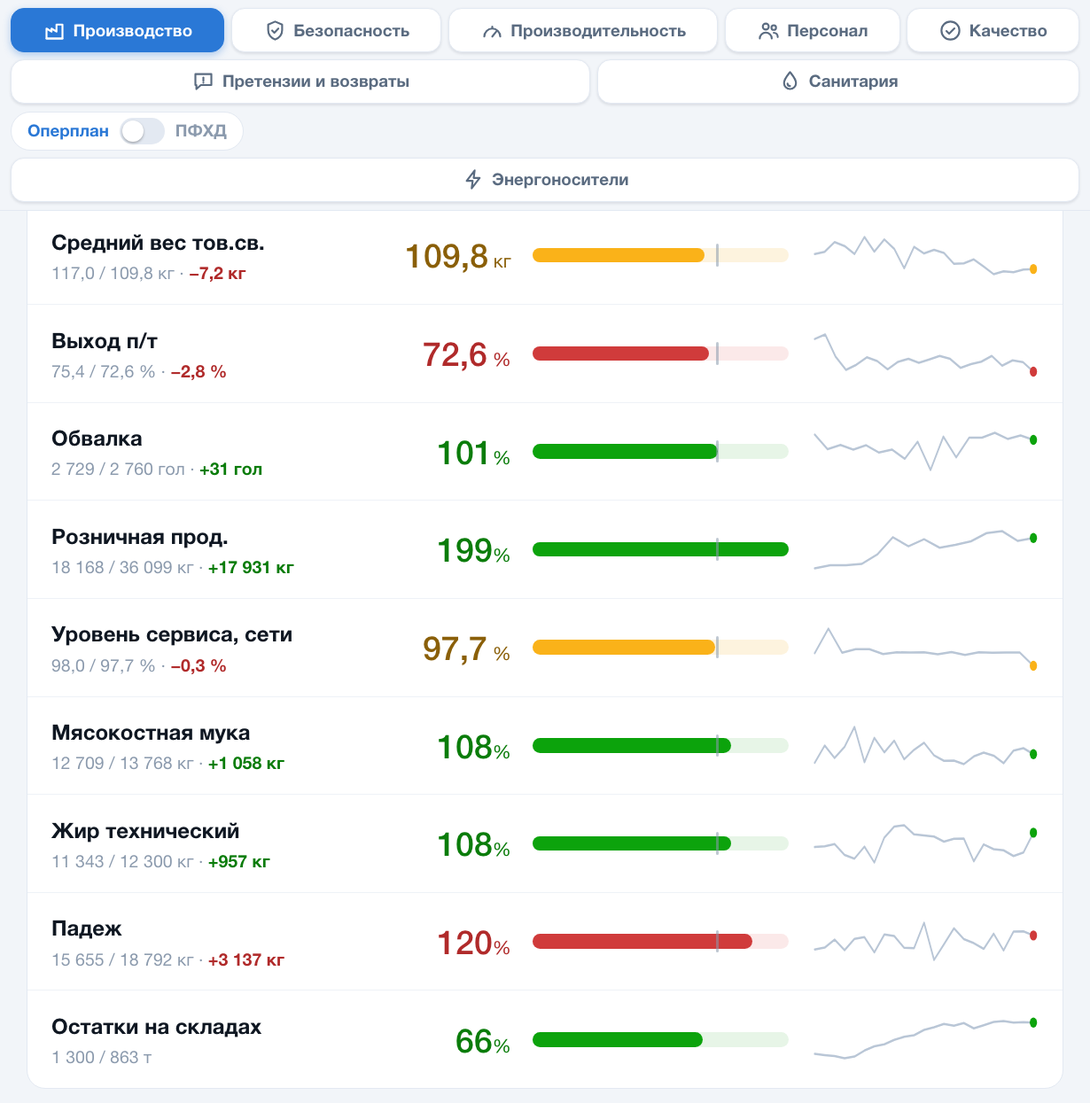
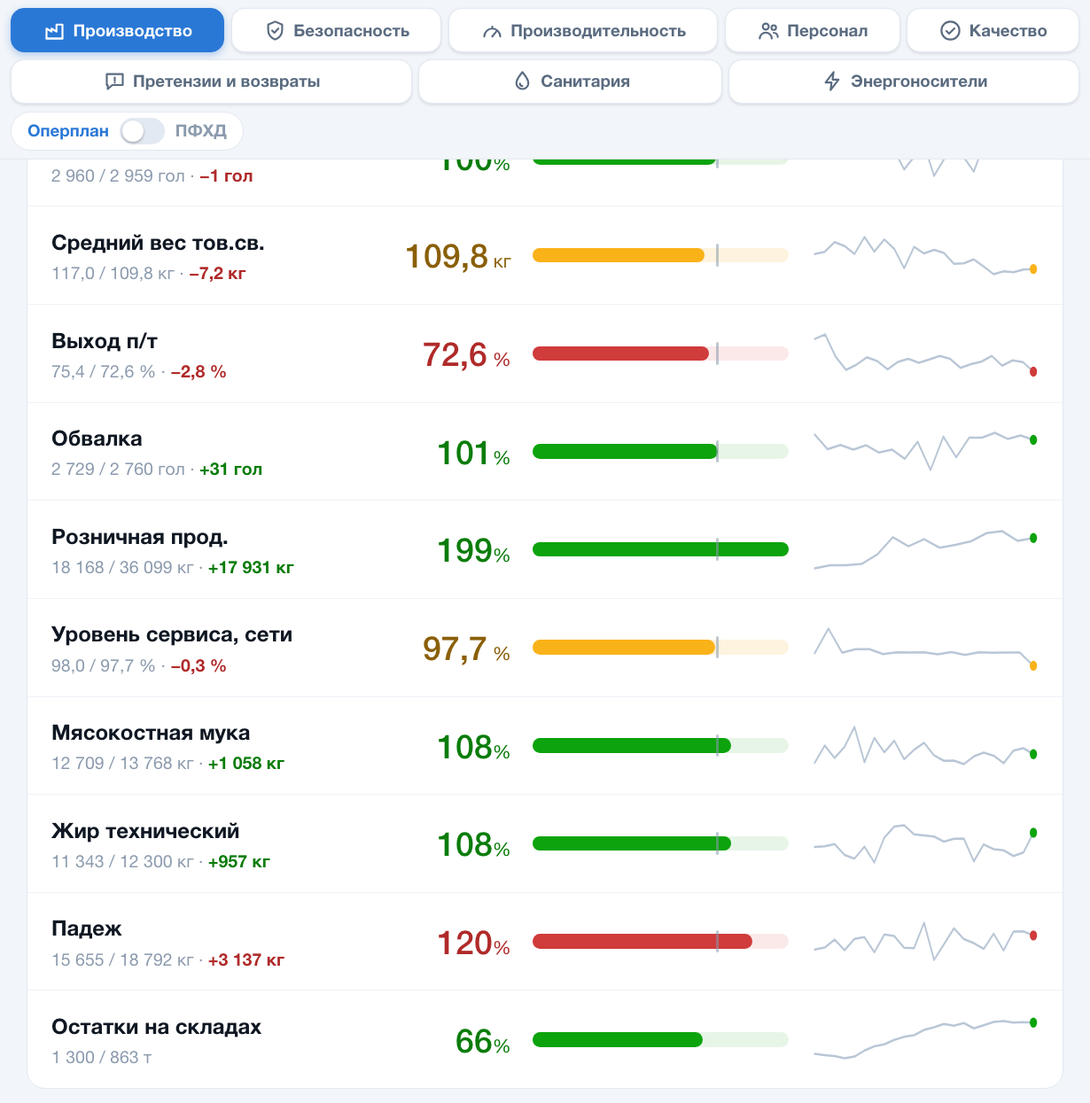
Данные по 23.10.2026

diff --git a/index.html b/index.html
@@ -8,10 +8,10 @@
 <meta property="og:type" content="website">
 <meta property="og:site_name" content="&#8203;">
 <meta property="og:title" content="Сводка МПК за 23.10.2026">
-<meta property="og:image" content="https://pashaleb-alt.github.io/MPK/preview.png?v=20261025003400">
+<meta property="og:image" content="https://pashaleb-alt.github.io/MPK/preview.png?v=20261025012015">
 <meta property="og:image:width" content="1230"><meta property="og:image:height" content="1245">
 <meta name="twitter:card" content="summary_large_image">
-<meta name="twitter:image" content="https://pashaleb-alt.github.io/MPK/preview.png?v=20261025003400">
+<meta name="twitter:image" content="https://pashaleb-alt.github.io/MPK/preview.png?v=20261025012015">
 <title>Показатели МПК 2026</title>
 <style>:root{color-scheme:light dark}html,body{margin:0;padding:0}img{max-width:100%}[hidden]{display:none!important}</style>
 <script>if(/tgWebApp/.test(location.hash)){var s=document.createElement("script");s.src="https://telegram.org/js/telegram-web-app.js";s.onload=function(){try{Telegram.WebApp.ready();Telegram.WebApp.expand()}catch(e){}};document.head.appendChild(s)}</script>
@@ -218,7 +218,7 @@ input[type=date]:focus-visible{outline:2px solid var(--accent);outline-offset:2p
 (()=>{try{const q=new URLSearchParams(location.search).get("theme"); if(q==="light"||q==="dark") localStorage.setItem("mpkTheme",q); if(q==="auto") localStorage.setItem("mpkTheme","auto");
 const t=localStorage.getItem("mpkTheme")||"light"; if(t!=="auto") document.documentElement.setAttribute("data-theme",t);}catch(e){document.documentElement.setAttribute("data-theme","light")}})();</script>
 <div class="wrap">
-  <nav class="dashnav" aria-label="Дашборды"><a href="/MPK/" class="on" data-p="prod"><svg viewBox="0 0 24 24" aria-hidden="true"><path d="M4 20V10l5 3V10l5 3V6h6v14z"/><path d="M4 20h16"/></svg><span>Производство</span></a><a href="/MPK/safety/" data-p="safety"><svg viewBox="0 0 24 24" aria-hidden="true"><path d="M12 3l7 3v5.5c0 4.3-2.9 7.7-7 9.5-4.1-1.8-7-5.2-7-9.5V6z"/><path d="M9 12l2.2 2.2L15.2 10"/></svg><span>Безопасность</span></a><a href="/MPK/labor/" data-p="labor"><svg viewBox="0 0 24 24" aria-hidden="true"><path d="M4 18a8 8 0 1 1 16 0"/><path d="M12 18l4-5"/><path d="M12 8v1.5"/></svg><span><span class="lf">Производительность</span><span class="ls">Произв. труда</span></span></a><a href="/MPK/staff/" data-p="staff"><svg viewBox="0 0 24 24" aria-hidden="true"><circle cx="9" cy="8" r="3"/><path d="M3 20c0-3.3 2.7-6 6-6s6 2.7 6 6"/><circle cx="17" cy="9" r="2.3"/><path d="M17 14.2c2.4 0 4 1.8 4 4.3"/></svg><span>Персонал</span></a><a href="/MPK/quality/" data-p="quality"><svg viewBox="0 0 24 24" aria-hidden="true"><circle cx="12" cy="12" r="9"/><path d="M8 12.5l2.7 2.7L16 9.8"/></svg><span>Качество</span></a><a href="/MPK/claims/" data-p="claims"><svg viewBox="0 0 24 24" aria-hidden="true"><path d="M4 5h16v11H9.5L5 20v-4H4z"/><path d="M12 8.5v3.2"/><path d="M12 13.6v.1"/></svg><span><span class="lf">Претензии и возвраты</span><span class="ls">Претензии и возвраты</span></span></a><a href="/MPK/sanitary/" data-p="sanitary"><svg viewBox="0 0 24 24" aria-hidden="true"><path d="M12 3c3.2 4 6 7 6 11a6 6 0 0 1-12 0c0-4 2.8-7 6-11z"/><path d="M9.5 14.5a2.5 2.5 0 0 0 2.5 2.5"/></svg><span>Санитария</span></a><div class="plrow" id="plrow"><span class="plsw" role="group" aria-label="Сравнение с планом"><button type="button" class="pll" data-plan="op">Оперплан</button><button type="button" class="swb" role="switch" aria-checked="false" aria-label="Переключить оперплан / ПФХД"><i></i></button><button type="button" class="pll" data-plan="pf">ПФХД</button></span></div><div class="stcat" id="stcat"><span class="plsw" role="group" aria-label="Категории сотрудников"><button type="button" class="stl" data-c="all">Все категории</button><button type="button" class="swb" id="stsw" role="switch" aria-checked="false" aria-label="Все категории / только штатные"><i></i></button><button type="button" class="stl" data-c="staff">Только штатные</button></span></div><a href="/MPK/energy/" data-p="energy"><svg viewBox="0 0 24 24" aria-hidden="true"><path d="M13 3L5 13.5h6L10 21l8-10.5h-6z"/></svg><span>Энергоносители</span></a></nav>
+  <nav class="dashnav" aria-label="Дашборды"><a href="/MPK/" class="on" data-p="prod"><svg viewBox="0 0 24 24" aria-hidden="true"><path d="M4 20V10l5 3V10l5 3V6h6v14z"/><path d="M4 20h16"/></svg><span>Производство</span></a><a href="/MPK/safety/" data-p="safety"><svg viewBox="0 0 24 24" aria-hidden="true"><path d="M12 3l7 3v5.5c0 4.3-2.9 7.7-7 9.5-4.1-1.8-7-5.2-7-9.5V6z"/><path d="M9 12l2.2 2.2L15.2 10"/></svg><span>Безопасность</span></a><a href="/MPK/labor/" data-p="labor"><svg viewBox="0 0 24 24" aria-hidden="true"><path d="M4 18a8 8 0 1 1 16 0"/><path d="M12 18l4-5"/><path d="M12 8v1.5"/></svg><span><span class="lf">Производительность</span><span class="ls">Произв. труда</span></span></a><a href="/MPK/staff/" data-p="staff"><svg viewBox="0 0 24 24" aria-hidden="true"><circle cx="9" cy="8" r="3"/><path d="M3 20c0-3.3 2.7-6 6-6s6 2.7 6 6"/><circle cx="17" cy="9" r="2.3"/><path d="M17 14.2c2.4 0 4 1.8 4 4.3"/></svg><span>Персонал</span></a><a href="/MPK/quality/" data-p="quality"><svg viewBox="0 0 24 24" aria-hidden="true"><circle cx="12" cy="12" r="9"/><path d="M8 12.5l2.7 2.7L16 9.8"/></svg><span>Качество</span></a><a href="/MPK/claims/" data-p="claims"><svg viewBox="0 0 24 24" aria-hidden="true"><path d="M4 5h16v11H9.5L5 20v-4H4z"/><path d="M12 8.5v3.2"/><path d="M12 13.6v.1"/></svg><span><span class="lf">Претензии и возвраты</span><span class="ls">Претензии и возвраты</span></span></a><a href="/MPK/sanitary/" data-p="sanitary"><svg viewBox="0 0 24 24" aria-hidden="true"><path d="M12 3c3.2 4 6 7 6 11a6 6 0 0 1-12 0c0-4 2.8-7 6-11z"/><path d="M9.5 14.5a2.5 2.5 0 0 0 2.5 2.5"/></svg><span>Санитария</span></a><a href="/MPK/energy/" data-p="energy"><svg viewBox="0 0 24 24" aria-hidden="true"><path d="M13 3L5 13.5h6L10 21l8-10.5h-6z"/></svg><span>Энергоносители</span></a><div class="plrow" id="plrow"><span class="plsw" role="group" aria-label="Сравнение с планом"><button type="button" class="pll" data-plan="op">Оперплан</button><button type="button" class="swb" role="switch" aria-checked="false" aria-label="Переключить оперплан / ПФХД"><i></i></button><button type="button" class="pll" data-plan="pf">ПФХД</button></span></div><div class="stcat" id="stcat"><span class="plsw" role="group" aria-label="Категории сотрудников"><button type="button" class="stl" data-c="all">Все категории</button><button type="button" class="swb" id="stsw" role="switch" aria-checked="false" aria-label="Все категории / только штатные"><i></i></button><button type="button" class="stl" data-c="staff">Только штатные</button></span></div></nav>
 <script>(()=>{try{if(!navigator.standalone&&!matchMedia("(display-mode: standalone)").matches&&!/tgWebApp/.test(location.hash)&&/iPhone|iPad/.test(navigator.userAgent))document.documentElement.classList.add("inbrowser")}catch(e){}})();</script>
 <script>document.querySelectorAll(".dashnav a").forEach(a=>a.addEventListener("click",e=>{e.preventDefault();const u=new URL(a.getAttribute("href"),location.origin);u.searchParams.set("v",Date.now());location.assign(u.toString())}));</script>
 <script>(()=>{const c=()=>{try{const n=document.querySelector(".dashnav"),a=n.querySelector("a.on");if(a)n.scrollLeft=a.offsetLeft-(n.clientWidth-a.offsetWidth)/2}catch(e){}};addEventListener("DOMContentLoaded",c);addEventListener("load",c);setTimeout(c,60);setTimeout(c,400)})();(()=>{const f=()=>{try{document.documentElement.style.setProperty("--navh",document.querySelector(".dashnav").offsetHeight+"px")}catch(e){}};f();addEventListener("DOMContentLoaded",f);addEventListener("load",f);addEventListener("resize",f);setTimeout(f,300)})();</script>

diff --git a/labor/index.html b/labor/index.html
@@ -8,10 +8,10 @@
 <meta property="og:type" content="website">
 <meta property="og:site_name" content="&#8203;">
 <meta property="og:title" content="Сводка МПК за 23.10.2026">
-<meta property="og:image" content="https://pashaleb-alt.github.io/MPK/preview.png?v=20261025003400">
+<meta property="og:image" content="https://pashaleb-alt.github.io/MPK/preview.png?v=20261025012015">
 <meta property="og:image:width" content="1230"><meta property="og:image:height" content="1245">
 <meta name="twitter:card" content="summary_large_image">
-<meta name="twitter:image" content="https://pashaleb-alt.github.io/MPK/preview.png?v=20261025003400">
+<meta name="twitter:image" content="https://pashaleb-alt.github.io/MPK/preview.png?v=20261025012015">
 <title>Показатели МПК 2026</title>
 <style>:root{color-scheme:light dark}html,body{margin:0;padding:0}img{max-width:100%}[hidden]{display:none!important}</style>
 <script>if(/tgWebApp/.test(location.hash)){var s=document.createElement("script");s.src="https://telegram.org/js/telegram-web-app.js";s.onload=function(){try{Telegram.WebApp.ready();Telegram.WebApp.expand()}catch(e){}};document.head.appendChild(s)}</script>
@@ -218,7 +218,7 @@ input[type=date]:focus-visible{outline:2px solid var(--accent);outline-offset:2p
 (()=>{try{const q=new URLSearchParams(location.search).get("theme"); if(q==="light"||q==="dark") localStorage.setItem("mpkTheme",q); if(q==="auto") localStorage.setItem("mpkTheme","auto");
 const t=localStorage.getItem("mpkTheme")||"light"; if(t!=="auto") document.documentElement.setAttribute("data-theme",t);}catch(e){document.documentElement.setAttribute("data-theme","light")}})();</script>
 <div class="wrap">
-  <nav class="dashnav" aria-label="Дашборды"><a href="/MPK/" class="on" data-p="prod"><svg viewBox="0 0 24 24" aria-hidden="true"><path d="M4 20V10l5 3V10l5 3V6h6v14z"/><path d="M4 20h16"/></svg><span>Производство</span></a><a href="/MPK/safety/" data-p="safety"><svg viewBox="0 0 24 24" aria-hidden="true"><path d="M12 3l7 3v5.5c0 4.3-2.9 7.7-7 9.5-4.1-1.8-7-5.2-7-9.5V6z"/><path d="M9 12l2.2 2.2L15.2 10"/></svg><span>Безопасность</span></a><a href="/MPK/labor/" data-p="labor"><svg viewBox="0 0 24 24" aria-hidden="true"><path d="M4 18a8 8 0 1 1 16 0"/><path d="M12 18l4-5"/><path d="M12 8v1.5"/></svg><span><span class="lf">Производительность</span><span class="ls">Произв. труда</span></span></a><a href="/MPK/staff/" data-p="staff"><svg viewBox="0 0 24 24" aria-hidden="true"><circle cx="9" cy="8" r="3"/><path d="M3 20c0-3.3 2.7-6 6-6s6 2.7 6 6"/><circle cx="17" cy="9" r="2.3"/><path d="M17 14.2c2.4 0 4 1.8 4 4.3"/></svg><span>Персонал</span></a><a href="/MPK/quality/" data-p="quality"><svg viewBox="0 0 24 24" aria-hidden="true"><circle cx="12" cy="12" r="9"/><path d="M8 12.5l2.7 2.7L16 9.8"/></svg><span>Качество</span></a><a href="/MPK/claims/" data-p="claims"><svg viewBox="0 0 24 24" aria-hidden="true"><path d="M4 5h16v11H9.5L5 20v-4H4z"/><path d="M12 8.5v3.2"/><path d="M12 13.6v.1"/></svg><span><span class="lf">Претензии и возвраты</span><span class="ls">Претензии и возвраты</span></span></a><a href="/MPK/sanitary/" data-p="sanitary"><svg viewBox="0 0 24 24" aria-hidden="true"><path d="M12 3c3.2 4 6 7 6 11a6 6 0 0 1-12 0c0-4 2.8-7 6-11z"/><path d="M9.5 14.5a2.5 2.5 0 0 0 2.5 2.5"/></svg><span>Санитария</span></a><div class="plrow" id="plrow"><span class="plsw" role="group" aria-label="Сравнение с планом"><button type="button" class="pll" data-plan="op">Оперплан</button><button type="button" class="swb" role="switch" aria-checked="false" aria-label="Переключить оперплан / ПФХД"><i></i></button><button type="button" class="pll" data-plan="pf">ПФХД</button></span></div><div class="stcat" id="stcat"><span class="plsw" role="group" aria-label="Категории сотрудников"><button type="button" class="stl" data-c="all">Все категории</button><button type="button" class="swb" id="stsw" role="switch" aria-checked="false" aria-label="Все категории / только штатные"><i></i></button><button type="button" class="stl" data-c="staff">Только штатные</button></span></div><a href="/MPK/energy/" data-p="energy"><svg viewBox="0 0 24 24" aria-hidden="true"><path d="M13 3L5 13.5h6L10 21l8-10.5h-6z"/></svg><span>Энергоносители</span></a></nav>
+  <nav class="dashnav" aria-label="Дашборды"><a href="/MPK/" class="on" data-p="prod"><svg viewBox="0 0 24 24" aria-hidden="true"><path d="M4 20V10l5 3V10l5 3V6h6v14z"/><path d="M4 20h16"/></svg><span>Производство</span></a><a href="/MPK/safety/" data-p="safety"><svg viewBox="0 0 24 24" aria-hidden="true"><path d="M12 3l7 3v5.5c0 4.3-2.9 7.7-7 9.5-4.1-1.8-7-5.2-7-9.5V6z"/><path d="M9 12l2.2 2.2L15.2 10"/></svg><span>Безопасность</span></a><a href="/MPK/labor/" data-p="labor"><svg viewBox="0 0 24 24" aria-hidden="true"><path d="M4 18a8 8 0 1 1 16 0"/><path d="M12 18l4-5"/><path d="M12 8v1.5"/></svg><span><span class="lf">Производительность</span><span class="ls">Произв. труда</span></span></a><a href="/MPK/staff/" data-p="staff"><svg viewBox="0 0 24 24" aria-hidden="true"><circle cx="9" cy="8" r="3"/><path d="M3 20c0-3.3 2.7-6 6-6s6 2.7 6 6"/><circle cx="17" cy="9" r="2.3"/><path d="M17 14.2c2.4 0 4 1.8 4 4.3"/></svg><span>Персонал</span></a><a href="/MPK/quality/" data-p="quality"><svg viewBox="0 0 24 24" aria-hidden="true"><circle cx="12" cy="12" r="9"/><path d="M8 12.5l2.7 2.7L16 9.8"/></svg><span>Качество</span></a><a href="/MPK/claims/" data-p="claims"><svg viewBox="0 0 24 24" aria-hidden="true"><path d="M4 5h16v11H9.5L5 20v-4H4z"/><path d="M12 8.5v3.2"/><path d="M12 13.6v.1"/></svg><span><span class="lf">Претензии и возвраты</span><span class="ls">Претензии и возвраты</span></span></a><a href="/MPK/sanitary/" data-p="sanitary"><svg viewBox="0 0 24 24" aria-hidden="true"><path d="M12 3c3.2 4 6 7 6 11a6 6 0 0 1-12 0c0-4 2.8-7 6-11z"/><path d="M9.5 14.5a2.5 2.5 0 0 0 2.5 2.5"/></svg><span>Санитария</span></a><a href="/MPK/energy/" data-p="energy"><svg viewBox="0 0 24 24" aria-hidden="true"><path d="M13 3L5 13.5h6L10 21l8-10.5h-6z"/></svg><span>Энергоносители</span></a><div class="plrow" id="plrow"><span class="plsw" role="group" aria-label="Сравнение с планом"><button type="button" class="pll" data-plan="op">Оперплан</button><button type="button" class="swb" role="switch" aria-checked="false" aria-label="Переключить оперплан / ПФХД"><i></i></button><button type="button" class="pll" data-plan="pf">ПФХД</button></span></div><div class="stcat" id="stcat"><span class="plsw" role="group" aria-label="Категории сотрудников"><button type="button" class="stl" data-c="all">Все категории</button><button type="button" class="swb" id="stsw" role="switch" aria-checked="false" aria-label="Все категории / только штатные"><i></i></button><button type="button" class="stl" data-c="staff">Только штатные</button></span></div></nav>
 <script>(()=>{try{if(!navigator.standalone&&!matchMedia("(display-mode: standalone)").matches&&!/tgWebApp/.test(location.hash)&&/iPhone|iPad/.test(navigator.userAgent))document.documentElement.classList.add("inbrowser")}catch(e){}})();</script>
 <script>document.querySelectorAll(".dashnav a").forEach(a=>a.addEventListener("click",e=>{e.preventDefault();const u=new URL(a.getAttribute("href"),location.origin);u.searchParams.set("v",Date.now());location.assign(u.toString())}));</script>
 <script>(()=>{const c=()=>{try{const n=document.querySelector(".dashnav"),a=n.querySelector("a.on");if(a)n.scrollLeft=a.offsetLeft-(n.clientWidth-a.offsetWidth)/2}catch(e){}};addEventListener("DOMContentLoaded",c);addEventListener("load",c);setTimeout(c,60);setTimeout(c,400)})();(()=>{const f=()=>{try{document.documentElement.style.setProperty("--navh",document.querySelector(".dashnav").offsetHeight+"px")}catch(e){}};f();addEventListener("DOMContentLoaded",f);addEventListener("load",f);addEventListener("resize",f);setTimeout(f,300)})();</script>

diff --git a/staff/index.html b/staff/index.html
@@ -8,10 +8,10 @@
 <meta property="og:type" content="website">
 <meta property="og:site_name" content="&#8203;">
 <meta property="og:title" content="Сводка МПК за 23.10.2026">
-<meta property="og:image" content="https://pashaleb-alt.github.io/MPK/preview.png?v=20261025003400">
+<meta property="og:image" content="https://pashaleb-alt.github.io/MPK/preview.png?v=20261025012015">
 <meta property="og:image:width" content="1230"><meta property="og:image:height" content="1245">
 <meta name="twitter:card" content="summary_large_image">
-<meta name="twitter:image" content="https://pashaleb-alt.github.io/MPK/preview.png?v=20261025003400">
+<meta name="twitter:image" content="https://pashaleb-alt.github.io/MPK/preview.png?v=20261025012015">
 <title>Показатели МПК 2026</title>
 <style>:root{color-scheme:light dark}html,body{margin:0;padding:0}img{max-width:100%}[hidden]{display:none!important}</style>
 <script>if(/tgWebApp/.test(location.hash)){var s=document.createElement("script");s.src="https://telegram.org/js/telegram-web-app.js";s.onload=function(){try{Telegram.WebApp.ready();Telegram.WebApp.expand()}catch(e){}};document.head.appendChild(s)}</script>
@@ -218,7 +218,7 @@ input[type=date]:focus-visible{outline:2px solid var(--accent);outline-offset:2p
 (()=>{try{const q=new URLSearchParams(location.search).get("theme"); if(q==="light"||q==="dark") localStorage.setItem("mpkTheme",q); if(q==="auto") localStorage.setItem("mpkTheme","auto");
 const t=localStorage.getItem("mpkTheme")||"light"; if(t!=="auto") document.documentElement.setAttribute("data-theme",t);}catch(e){document.documentElement.setAttribute("data-theme","light")}})();</script>
 <div class="wrap">
-  <nav class="dashnav" aria-label="Дашборды"><a href="/MPK/" class="on" data-p="prod"><svg viewBox="0 0 24 24" aria-hidden="true"><path d="M4 20V10l5 3V10l5 3V6h6v14z"/><path d="M4 20h16"/></svg><span>Производство</span></a><a href="/MPK/safety/" data-p="safety"><svg viewBox="0 0 24 24" aria-hidden="true"><path d="M12 3l7 3v5.5c0 4.3-2.9 7.7-7 9.5-4.1-1.8-7-5.2-7-9.5V6z"/><path d="M9 12l2.2 2.2L15.2 10"/></svg><span>Безопасность</span></a><a href="/MPK/labor/" data-p="labor"><svg viewBox="0 0 24 24" aria-hidden="true"><path d="M4 18a8 8 0 1 1 16 0"/><path d="M12 18l4-5"/><path d="M12 8v1.5"/></svg><span><span class="lf">Производительность</span><span class="ls">Произв. труда</span></span></a><a href="/MPK/staff/" data-p="staff"><svg viewBox="0 0 24 24" aria-hidden="true"><circle cx="9" cy="8" r="3"/><path d="M3 20c0-3.3 2.7-6 6-6s6 2.7 6 6"/><circle cx="17" cy="9" r="2.3"/><path d="M17 14.2c2.4 0 4 1.8 4 4.3"/></svg><span>Персонал</span></a><a href="/MPK/quality/" data-p="quality"><svg viewBox="0 0 24 24" aria-hidden="true"><circle cx="12" cy="12" r="9"/><path d="M8 12.5l2.7 2.7L16 9.8"/></svg><span>Качество</span></a><a href="/MPK/claims/" data-p="claims"><svg viewBox="0 0 24 24" aria-hidden="true"><path d="M4 5h16v11H9.5L5 20v-4H4z"/><path d="M12 8.5v3.2"/><path d="M12 13.6v.1"/></svg><span><span class="lf">Претензии и возвраты</span><span class="ls">Претензии и возвраты</span></span></a><a href="/MPK/sanitary/" data-p="sanitary"><svg viewBox="0 0 24 24" aria-hidden="true"><path d="M12 3c3.2 4 6 7 6 11a6 6 0 0 1-12 0c0-4 2.8-7 6-11z"/><path d="M9.5 14.5a2.5 2.5 0 0 0 2.5 2.5"/></svg><span>Санитария</span></a><div class="plrow" id="plrow"><span class="plsw" role="group" aria-label="Сравнение с планом"><button type="button" class="pll" data-plan="op">Оперплан</button><button type="button" class="swb" role="switch" aria-checked="false" aria-label="Переключить оперплан / ПФХД"><i></i></button><button type="button" class="pll" data-plan="pf">ПФХД</button></span></div><div class="stcat" id="stcat"><span class="plsw" role="group" aria-label="Категории сотрудников"><button type="button" class="stl" data-c="all">Все категории</button><button type="button" class="swb" id="stsw" role="switch" aria-checked="false" aria-label="Все категории / только штатные"><i></i></button><button type="button" class="stl" data-c="staff">Только штатные</button></span></div><a href="/MPK/energy/" data-p="energy"><svg viewBox="0 0 24 24" aria-hidden="true"><path d="M13 3L5 13.5h6L10 21l8-10.5h-6z"/></svg><span>Энергоносители</span></a></nav>
+  <nav class="dashnav" aria-label="Дашборды"><a href="/MPK/" class="on" data-p="prod"><svg viewBox="0 0 24 24" aria-hidden="true"><path d="M4 20V10l5 3V10l5 3V6h6v14z"/><path d="M4 20h16"/></svg><span>Производство</span></a><a href="/MPK/safety/" data-p="safety"><svg viewBox="0 0 24 24" aria-hidden="true"><path d="M12 3l7 3v5.5c0 4.3-2.9 7.7-7 9.5-4.1-1.8-7-5.2-7-9.5V6z"/><path d="M9 12l2.2 2.2L15.2 10"/></svg><span>Безопасность</span></a><a href="/MPK/labor/" data-p="labor"><svg viewBox="0 0 24 24" aria-hidden="true"><path d="M4 18a8 8 0 1 1 16 0"/><path d="M12 18l4-5"/><path d="M12 8v1.5"/></svg><span><span class="lf">Производительность</span><span class="ls">Произв. труда</span></span></a><a href="/MPK/staff/" data-p="staff"><svg viewBox="0 0 24 24" aria-hidden="true"><circle cx="9" cy="8" r="3"/><path d="M3 20c0-3.3 2.7-6 6-6s6 2.7 6 6"/><circle cx="17" cy="9" r="2.3"/><path d="M17 14.2c2.4 0 4 1.8 4 4.3"/></svg><span>Персонал</span></a><a href="/MPK/quality/" data-p="quality"><svg viewBox="0 0 24 24" aria-hidden="true"><circle cx="12" cy="12" r="9"/><path d="M8 12.5l2.7 2.7L16 9.8"/></svg><span>Качество</span></a><a href="/MPK/claims/" data-p="claims"><svg viewBox="0 0 24 24" aria-hidden="true"><path d="M4 5h16v11H9.5L5 20v-4H4z"/><path d="M12 8.5v3.2"/><path d="M12 13.6v.1"/></svg><span><span class="lf">Претензии и возвраты</span><span class="ls">Претензии и возвраты</span></span></a><a href="/MPK/sanitary/" data-p="sanitary"><svg viewBox="0 0 24 24" aria-hidden="true"><path d="M12 3c3.2 4 6 7 6 11a6 6 0 0 1-12 0c0-4 2.8-7 6-11z"/><path d="M9.5 14.5a2.5 2.5 0 0 0 2.5 2.5"/></svg><span>Санитария</span></a><a href="/MPK/energy/" data-p="energy"><svg viewBox="0 0 24 24" aria-hidden="true"><path d="M13 3L5 13.5h6L10 21l8-10.5h-6z"/></svg><span>Энергоносители</span></a><div class="plrow" id="plrow"><span class="plsw" role="group" aria-label="Сравнение с планом"><button type="button" class="pll" data-plan="op">Оперплан</button><button type="button" class="swb" role="switch" aria-checked="false" aria-label="Переключить оперплан / ПФХД"><i></i></button><button type="button" class="pll" data-plan="pf">ПФХД</button></span></div><div class="stcat" id="stcat"><span class="plsw" role="group" aria-label="Категории сотрудников"><button type="button" class="stl" data-c="all">Все категории</button><button type="button" class="swb" id="stsw" role="switch" aria-checked="false" aria-label="Все категории / только штатные"><i></i></button><button type="button" class="stl" data-c="staff">Только штатные</button></span></div></nav>
 <script>(()=>{try{if(!navigator.standalone&&!matchMedia("(display-mode: standalone)").matches&&!/tgWebApp/.test(location.hash)&&/iPhone|iPad/.test(navigator.userAgent))document.documentElement.classList.add("inbrowser")}catch(e){}})();</script>
 <script>document.querySelectorAll(".dashnav a").forEach(a=>a.addEventListener("click",e=>{e.preventDefault();const u=new URL(a.getAttribute("href"),location.origin);u.searchParams.set("v",Date.now());location.assign(u.toString())}));</script>
 <script>(()=>{const c=()=>{try{const n=document.querySelector(".dashnav"),a=n.querySelector("a.on");if(a)n.scrollLeft=a.offsetLeft-(n.clientWidth-a.offsetWidth)/2}catch(e){}};addEventListener("DOMContentLoaded",c);addEventListener("load",c);setTimeout(c,60);setTimeout(c,400)})();(()=>{const f=()=>{try{document.documentElement.style.setProperty("--navh",document.querySelector(".dashnav").offsetHeight+"px")}catch(e){}};f();addEventListener("DOMContentLoaded",f);addEventListener("load",f);addEventListener("resize",f);setTimeout(f,300)})();</script>
